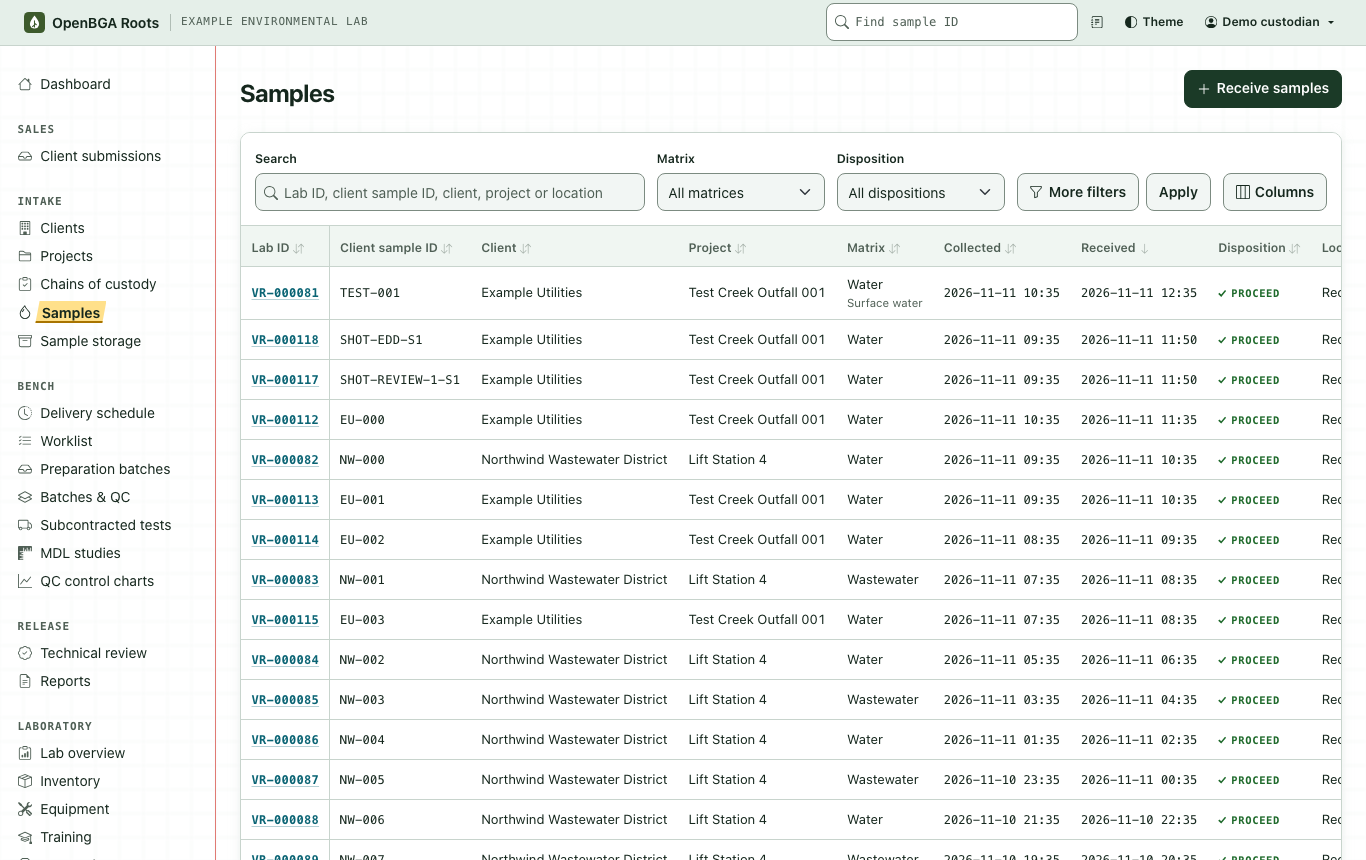
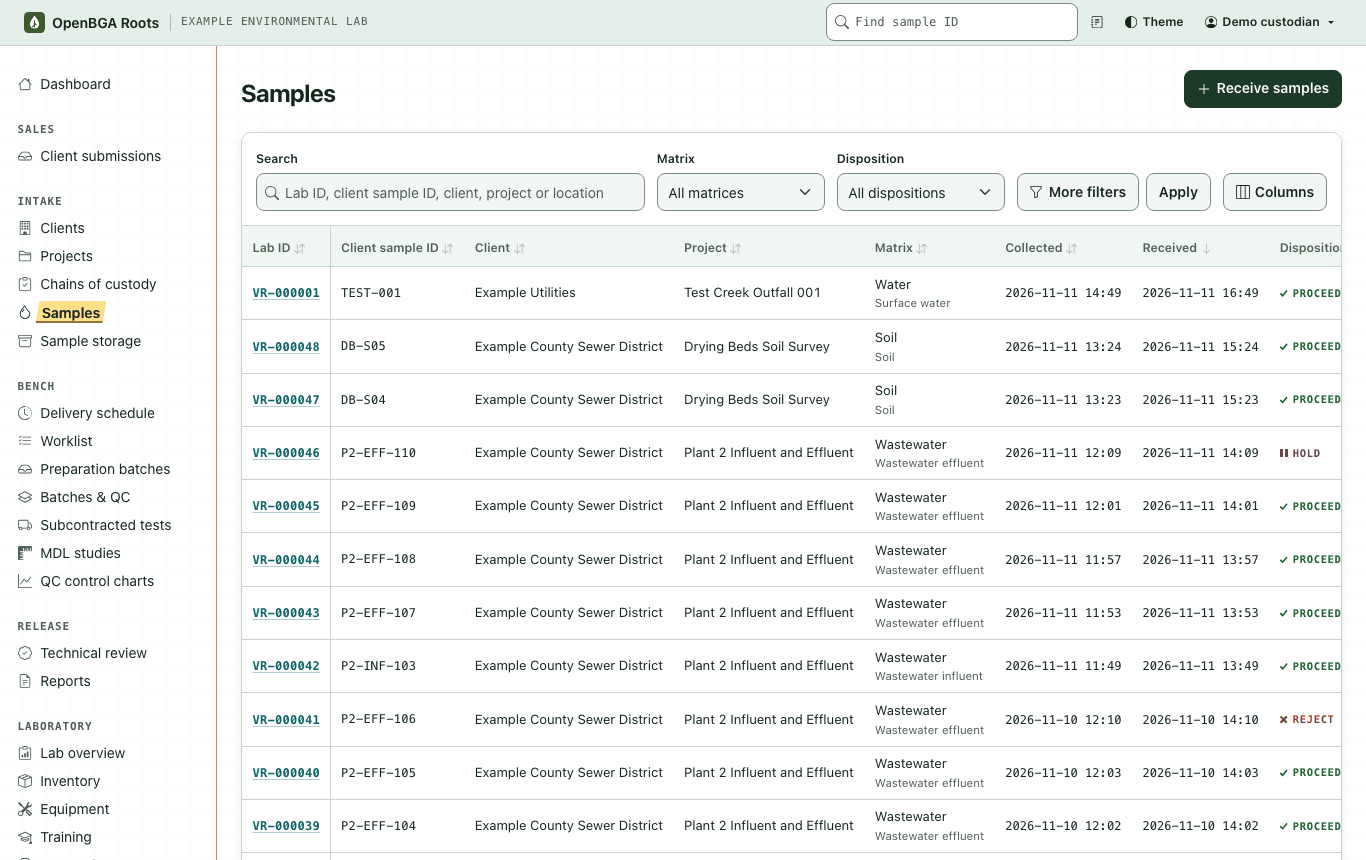
Presentation and README: screens from the full demo
The screenshots now come from `seed_demo --full`, so they show what the
trial produces: two clients and three matrices in the sample list, a review
held by a failed control sample, the control chart and an amended report.
The quick start uses the new option.

diff --git a/website/about/index.html b/website/about/index.html
@@ -56,7 +56,7 @@
                srcset="assets/samples-1280.webp 1280w, assets/samples-2560.webp 2560w"
                sizes="(min-width: 1240px) 1160px, 92vw"
                width="1280" height="800" fetchpriority="high"
-               alt="The Samples page of the staff workspace: a searchable, filterable table of received samples with their laboratory ID, client, project, matrix, collection and receipt times and receipt disposition.">
+               alt="The Samples page of the staff workspace: a searchable, filterable table of received water, wastewater and soil samples from two clients, with their laboratory ID, project, matrix, collection and receipt times.">
           <figcaption>The sample list in the staff workspace. Every screen on this page shows synthetic demo data.</figcaption>
         </figure>
       </div>
@@ -96,7 +96,7 @@
       <div class="wrap">
         <div class="section-intro">
           <h2 id="closer-title">A closer look.</h2>
-          <p>Three moments from the demo laboratory that ships with the project: a review, a control chart and an issued report.</p>
+          <p>Three moments from the demo laboratory that ships with the project: a review, a control chart and an amended report.</p>
         </div>
 
         <div class="features">
@@ -104,12 +104,12 @@
           <div class="feature-text">
             <p class="eyebrow">Review</p>
             <h3>Review beside the evidence.</h3>
-            <p>A reviewer works through a batch with its QC evaluation, holding-time findings, reporting limits and qualifiers on the same page, then approves each result or returns it with a reason.</p>
+            <p>A reviewer works through a batch with its QC evaluation, holding-time findings, reporting limits and qualifiers on the same page, then approves each result or returns it with a reason. An open QC finding holds the results it affects.</p>
           </div>
           <figure class="shot">
             <img src="assets/review-1280.webp" width="1280" height="800" loading="lazy" decoding="async"
-                 alt="Technical review of an analytical batch: the batch's QC evidence, with a passing laboratory control sample and method blank, above the results awaiting review and the decision form.">
-            <figcaption>Technical review of a batch, with its QC evidence above the results awaiting a decision.</figcaption>
+                 alt="Technical review of an analytical batch: the batch's QC evidence, where the laboratory control sample for lead failed at 130 percent recovery and holds approval while copper, zinc and the method blanks pass, above the nine results awaiting review.">
+            <figcaption>Technical review of a batch. A failed control sample holds approval until a disposition is recorded.</figcaption>
           </figure>
         </div>
 
@@ -121,7 +121,7 @@
           </div>
           <figure class="shot">
             <img src="assets/chart-1280.webp" width="1280" height="800" loading="lazy" decoding="async"
-                 alt="A control chart of laboratory control sample recoveries for lead: 26 points around 100 percent, configured limits at 85 and 115 percent, and one point outside the upper limit marked in red.">
+                 alt="A control chart of laboratory control sample recoveries for lead: 21 points around 100 percent, configured limits at 85 and 115 percent, and one point outside the upper limit marked in red.">
             <figcaption>A control chart for a laboratory control sample, with one recovery outside the configured limits.</figcaption>
           </figure>
         </div>
@@ -130,12 +130,12 @@
           <div class="feature-text">
             <p class="eyebrow">Reporting</p>
             <h3>The report your client receives.</h3>
-            <p>Each release stores a PDF version with its content hash. Clients download it from their own portal, where they see only their own projects, samples and reports.</p>
+            <p>Each release stores a PDF version with its content hash. An amendment names the version it replaces, the reason and what changed, and the earlier version stays on record. Clients download both from their own portal, where they see only their own projects, samples and reports.</p>
           </div>
           <figure class="shot shot-paper">
             <img src="assets/report-920.webp" width="920" height="1191" loading="lazy" decoding="async"
-                 alt="First page of an issued analytical report: report and client details, case narrative, sample summary, a lead result with its unit, reporting limit, method, analyst, reviewer and holding time, and the batch quality control summary.">
-            <figcaption>The first page of an issued report, marked as synthetic demonstration data.</figcaption>
+                 alt="First page of an amended analytical report, version 2: report and client details, a highlighted note that it replaces version 1 with the reason and the corrected zinc result, the case narrative, a summary of three samples and the first sample's results.">
+            <figcaption>The first page of an amended report, marked as synthetic demonstration data.</figcaption>
           </figure>
         </div>
         </div>
@@ -166,7 +166,7 @@
       <div class="wrap start-inner">
         <div>
           <h2 id="start-title">Try it on<br>your machine.</h2>
-          <p>With Docker and Compose installed, these commands build the application, start it beside a local PostgreSQL database and load a synthetic demo laboratory. It is reachable only from your machine and is meant for evaluation, not for real laboratory data.</p>
+          <p>With Docker and Compose installed, these commands build the application, start it beside a local PostgreSQL database and load a synthetic laboratory in the middle of a working week. It is reachable only from your machine and is meant for evaluation, not for real laboratory data.</p>
           <ul class="next-steps">
             <li><a href="https://github.com/openbga/roots/blob/main/README.md#local-development">Develop locally without Docker</a></li>
             <li><a href="https://github.com/openbga/roots/blob/main/README.md#set-up-your-laboratory">Set up your laboratory</a></li>
@@ -181,7 +181,7 @@ docker compose --profile app up --build -d
 <span class="comment"># Choose a private password of at least 12 characters.</span>
 read -s DEMO_PASSWORD; export DEMO_PASSWORD
 docker compose --profile app exec -e DEMO_PASSWORD web \
-  python manage.py seed_demo</code></pre>
+  python manage.py seed_demo --full</code></pre>
           </div>
           <p>Then open <code>http://127.0.0.1:8000</code> and sign in as <code>demo_custodian</code>, <code>demo_analyst</code>, <code>demo_reviewer</code> or another demo role with that password.</p>
         </div>
